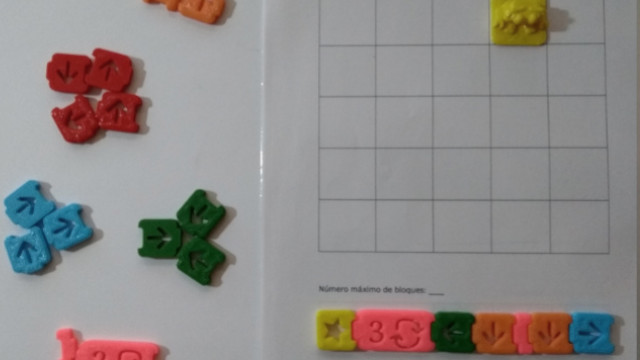
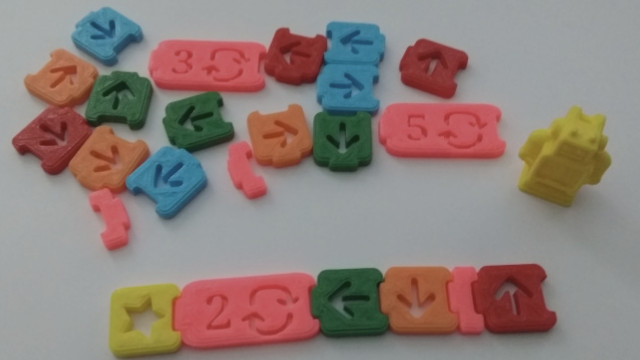
Update

diff --git a/v1/programar-sin-ordenador-con-aprendo-a-programar/README.md b/v1/programar-sin-ordenador-con-aprendo-a-programar/README.md
@@ -2,7 +2,7 @@
 
 Con este juego se pueden aprender las bases y la lógica de la programación utilizando sencillas fichas que puedes crearte utilizando cartulina o una impresora 3D.
 
-![](img/aprendo.jpg "Aprendo a programar")
+![](img/piezas.jpg "Aprendo a programar")
 
 > Esta actividad surge como adaptación del juego Yo Aprendo a programar de Ediset.
 
@@ -16,7 +16,24 @@ Con este juego se pueden aprender las bases y la lógica de la programación uti
 
 En este juego deberás guiar al robot hasta la meta escogiendo el mejor camino de los posibles. Para ello contarás con una serie de fichas (avanzar, retroceder, girar a la izquierda y derecha, bucles y ficha de inicio).
 
-El juego se puede jugar en parejas, donde uno crea el recorrido sobre una hoja cuadriculada y el oponente resulve el camino utilizando los bloques de programación. 
+![](img/plantilla.jpg "Plantilla de ejemplo")
+
+El juego se puede jugar en parejas, donde uno crea el recorrido sobre una hoja cuadriculada y el oponente resulve el camino utilizando los bloques de programación.
+
+Otra opción es utilizar plantillas de ejemplos con algoritmos complejos como se observa en la siguiente imagen. 
+
+![](img/algoritmos.jpg "Plantilla con algoritmos")
+
+
+
+<br />
+
+
+## Reinventa el juego
+
+Todas las piezas de este juego se han realizado en Tinkercad para que puedas contribuir en el desarrollo de nuevas piezas. Además, puedes descargar los ficheros en formato `.stl` desde nuestra página en Thingiverse e imprimir las piezas con una impresora 3D.
+
+![](img/tinkercad.jpg "Piezas en Tinkercad")
 
 
 
